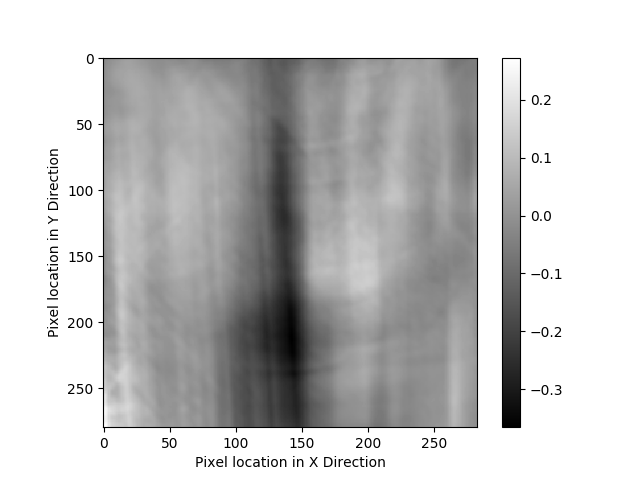
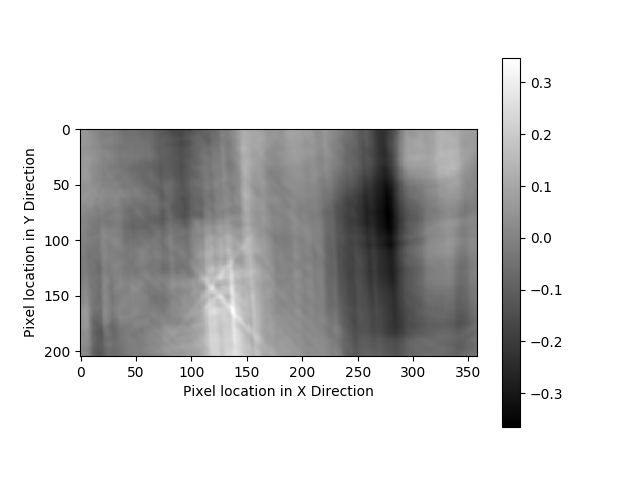
Fixed window and cross cor

diff --git a/hw2.py b/hw2.py
@@ -24,11 +24,11 @@ def main():
     while(cap.isOpened()):
         # # Capture frame-by-frame
         ret, f = cap.read()
-        frame = cv2.cvtColor(f, cv2.COLOR_BGR2GRAY)
 
         if ret == True:
+            frame = cv2.cvtColor(f, cv2.COLOR_BGR2GRAY)
             # Display the resulting frame
-            cv2.imshow('Frame',frame)
+            #cv2.imshow('Frame',frame)
             img = frame
             template = cv2.imread('template.png',0)
             w, h = template.shape[::-1]
@@ -37,14 +37,17 @@ def main():
             meth = 'cv2.TM_CCOEFF_NORMED'
             method = eval(meth)
             # Apply template Matching
-            res = cv2.matchTemplate(img[135:640,270:700],template,method)
+            #img[135:640,270:700]
+            res = cv2.matchTemplate(img[270:700,135:640],template,method)
             min_val, max_val, min_loc, max_loc = cv2.minMaxLoc(res)
-            top_left = (max_loc[0]+270, max_loc[1]+135)
+            top_left = (max_loc[0]+135, max_loc[1]+270)
             bottom_right = (top_left[0] + w, top_left[1] + h)
+            #top_left = (max_loc[0], max_loc[1])
+            #bottom_right = (top_left[0] + w, top_left[1] + h)
             
             print(top_left)
             print(bottom_right)
-            cv2.rectangle(img,(135,270), (640,700), 255, 2)
+            #cv2.rectangle(img,(135,270), (640,700), 255, 2)
             cv2.rectangle(img,top_left, bottom_right, 255, 2)
             #cv2.rectangle(f,(135,270), (640,700), (0,0,255), 2)
             #cv2.rectangle(f,top_left, bottom_right, (255,0,0), 2)
@@ -62,7 +65,7 @@ def main():
             plt.suptitle(meth)'''
             plt.savefig('cross_cor.png')
             plt.show()
-            cv2.waitKey(0) #Press Enter for Next Object in the Image
+            #cv2.waitKey(0) #Press Enter for Next Object in the Image
             sys.exit()
         else: 
             break
